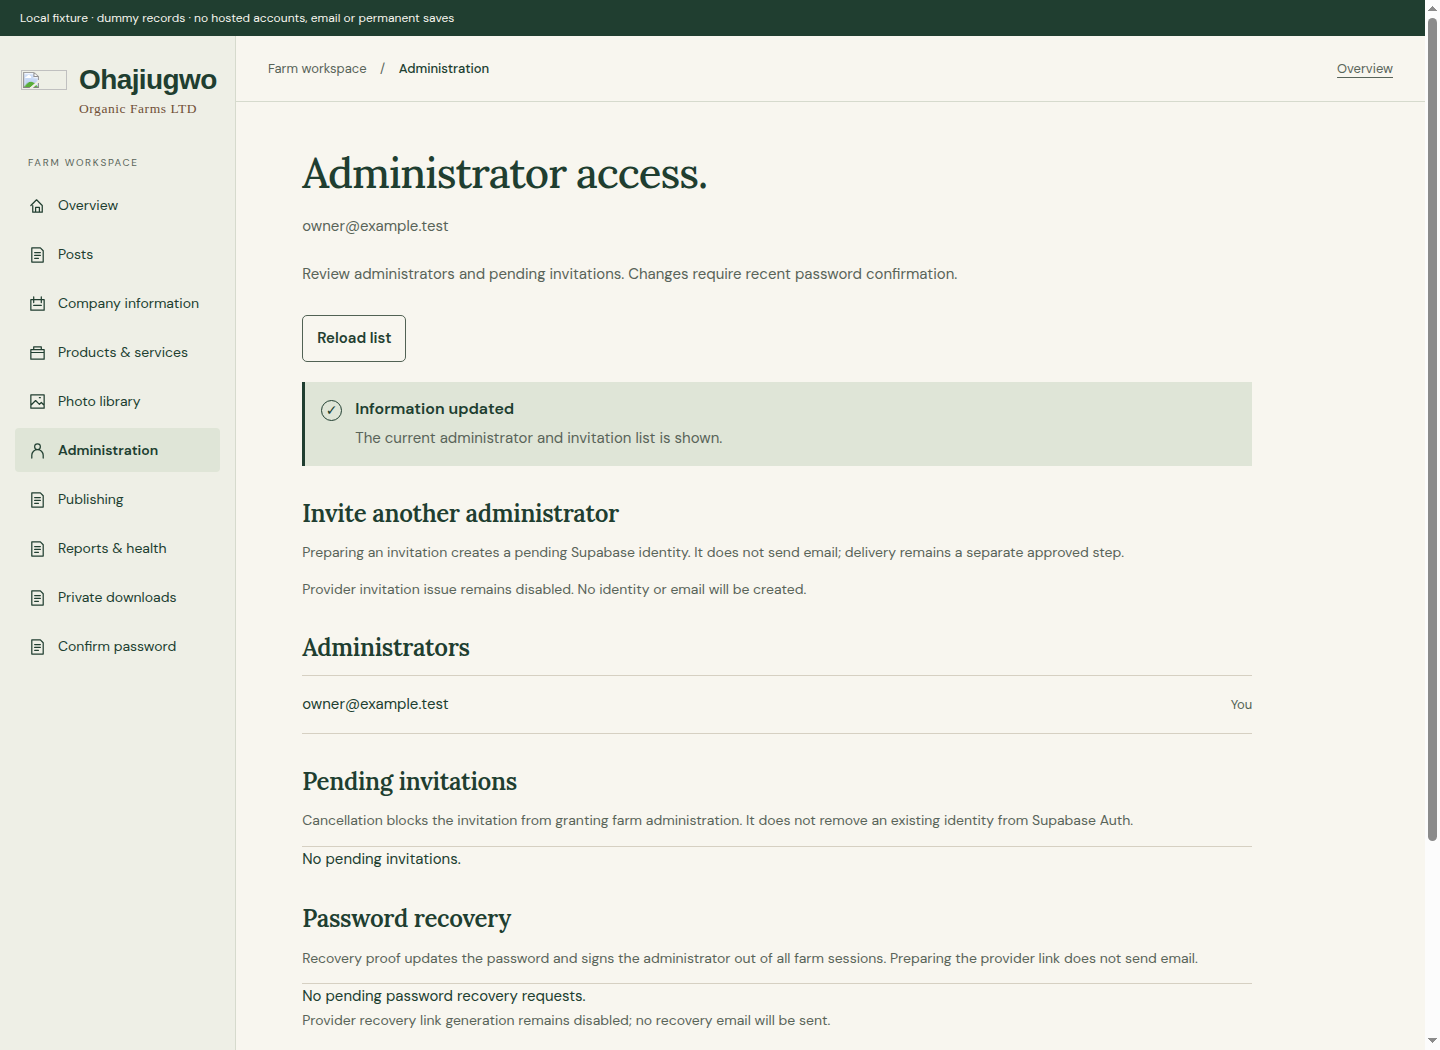
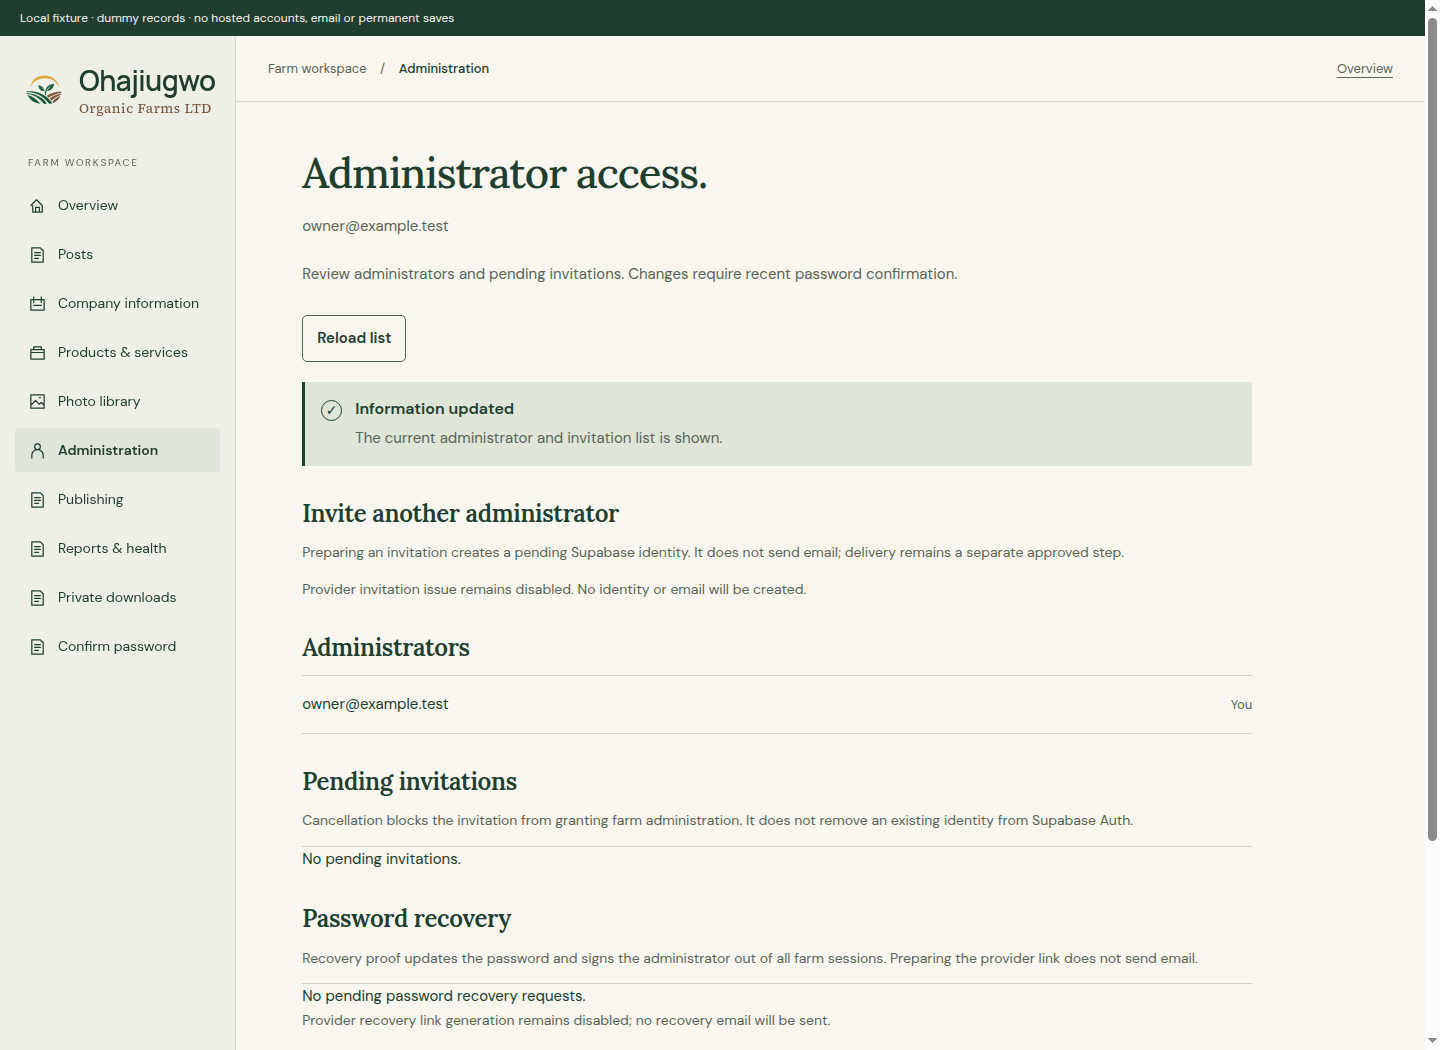
fix: refine landing copy and unify workspace layouts

diff --git a/admin/workspace/screen.css b/admin/workspace/screen.css
@@ -13,3 +13,10 @@
 .workspace-fixture-notice{margin:0!important;padding:9px 20px;background:#203e30;color:#f8f6ef!important;font:12px/1.5 WorkspaceDM,Arial,sans-serif}
 .workspace-sidebar nav a,.workspace-sidebar nav button,.editor-page.workspace-page .workspace-sidebar nav button{justify-content:flex-start}
 .workspace-page .workspace-primary,.workspace-page a.workspace-primary{background:var(--forest);color:var(--cream);border-color:var(--forest)}.workspace-page .workspace-primary:hover,.workspace-page a.workspace-primary:hover{background:var(--deep);color:var(--cream)}
+
+/* Shared workspace refinements: pinned desktop navigation, natural mobile flow. */
+@media(min-width:801px){
+ .workspace-page .workspace-sidebar,.editor-page.workspace-page .workspace-sidebar{position:sticky;top:0;align-self:start;height:100dvh;min-height:0;overflow-y:auto;overscroll-behavior:contain;scrollbar-width:thin}
+}
+.workspace-page .workspace-intro{max-width:68ch;margin-bottom:0}.workspace-page .workspace-section{padding:28px 0;border-top:1px solid var(--line)}.workspace-page .workspace-section>p{max-width:68ch;margin:0 0 20px}.workspace-page .workspace-section h2{margin:0 0 10px}.workspace-page .workspace-section .workspace-help{font-size:14px;margin:16px 0 0}.workspace-page .workspace-guidance{max-width:72ch;margin-top:12px;padding:20px 24px;background:var(--paper);border-left:3px solid #9a7049}.workspace-page .workspace-guidance p{margin:6px 0 0}.workspace-page .workspace-notice{margin:24px 0;padding:18px 20px;border-left:4px solid #496c85;background:#eaf0f4;color:#253f53;overflow-wrap:anywhere}.workspace-page .workspace-notice[data-state=error]{border-color:#8c2924;background:#fae9e4;color:#79251f}.workspace-page .workspace-notice:focus{outline:3px solid #aa672e;outline-offset:3px}.workspace-page #export-photos p{padding:14px 0;border-bottom:1px solid var(--line);margin:0}.workspace-page #export-photos button{max-width:100%;text-align:left}
+@media(max-width:800px){.workspace-page .workspace-section{padding:24px 0}.workspace-page .workspace-guidance{padding:18px}.workspace-page #export-content{width:100%}}

diff --git a/src/styles/main.css b/src/styles/main.css
@@ -1448,3 +1448,6 @@ div[id] {
 .home-page section[id][tabindex="-1"]:focus {
   outline: none;
 }
+
+/* Owner-requested warm-earth accent, with a light variant on the forest strip. */
+.rooted-accent{color:#85512f}.topline .rooted-accent{color:#edce91}

diff --git a/HANDOFF.md b/HANDOFF.md
@@ -1,5 +1,15 @@
 # Ohajiugwo Organic Farms Ltd — handoff
 
+## 21 November — owner-requested landing copy and administrator layout refinements
+
+Owner requests “rooted-in” with an accent colour, no five-hectare wording in the farmland section, removal of sidebar-bottom content, pinned desktop navigation and consistently designed admin sections including Private downloads. Implemented the precise UI changes locally, preserving existing auth/validation/session/CSRF/download behaviour. Header tagline and story heading now use Rooted-in/rooted-in with warm-earth accent (#85512f on cream, 6.04:1 contrast; #edce91 on forest, 7.72:1). Both visible acreage references in the landing page were rewritten without a size claim; underlying confirmed company acreage data/schema/admin fields remain intact. The practices prose and page metadata were not broadly rewritten.
+
+Removed the shared sidebar footer and its duplicate links. Desktop navigation is sticky/pinned to the viewport with its own overflow at short window heights; scrolling main content does not move it. At mobile widths it returns to natural document flow. Existing main navigation still includes password confirmation. Shared shell now ensures logo styling loads exactly once on every wrapped page; this fixes the previously inconsistent Private downloads logo. Downloads now has standard heading/intro, separated content/photo sections, shared feedback and consistent actions/helper text. No new dependency, floating-card redesign or account/email/provider behaviour change.
+
+Fresh local evidence: 53/53 public/editor tests and 242/242 administrator tests passed; hosting composition/build passed (3,392,289 raw worker bytes). Browser checks against loopback dummy providers passed across seven authenticated fixture surfaces: overview, content, media, accounts, publishing, reports and downloads. They verify absent sidebar footer, one logo stylesheet, pinned desktop navigation during main scrolling, natural mobile positioning and no horizontal overflow. Existing workspace keyboard/filter/error/recovery/CSS-zoom regression also passed. Saved-preview/download/release-error flows remain passing in the fixture. Public photo loading, mobile accent visibility, acreage-free story/location copy and 375/390/768/1440px reflow checked. Screenshots visually inspected: readiness-downloads-desktop/mobile, readiness-photography-desktop and readiness-about-desktop, under docs/review. These automated/screenshot checks are not owner appearance approval or new hosted auth/accessibility verification; manual screen-reader/physical keyboard/zoom gaps remain.
+
+Tests were updated narrowly for the explicitly authorised wording/accent changes; original section order/layout and remaining CSS baseline comparisons remain enforced. A local fixture asset fallback and navigation-ready checks were corrected so screenshots wait for the actual page/responsive hero instead of stale paint. No hosted migration, provider/SMTP change, real account/email, production deployment or main merge. Updating the existing Stage 2 staging preview follows the owner's standing staging-review authorisation; commit/deployment evidence is recorded separately after success. Stage 2 remains incomplete at pending011/three Auth cleanup review jobs.
+
 ## 21 November — committed, pushed and staged successfully for owner review
 
 Owner authorised commit/push and Cloudflare staging. Commit **`df736cf26267aa0de5122f3e65f8d5aac2bc12b2`** (`feat: add publishing recovery reporting and hosting readiness`) contains the readiness implementation and new sequential operations CI step. Pushed `stage-2-secure-content` to the existing GitHub repository, including the preceding local Farm workspace/design commits. `main` was neither merged nor changed. Private configuration scan and staged diff checks passed; no credentials or actual `.env.admin` were committed. Fresh local precommit checks passed: 242 administrator, 53 operations/reporting/publishing and 53 public/editor tests plus hosting composition.

diff --git a/design-system/ohajiugwo-organic-farms/MASTER.md b/design-system/ohajiugwo-organic-farms/MASTER.md
@@ -1,5 +1,9 @@
 # Ohajiugwo Organic Farms — project design system
 
+## 21 November — owner-requested UI refinement
+
+Landing tagline/story heading use “Rooted-in”/“rooted-in” with restrained warm-earth (#85512f on cream; #edce91 on forest) accent. No acreage wording in the visible story/farmland copy; confirmed source acreage is retained. Administrator sidebar has no footer content, stays pinned while desktop main content scrolls, and returns to natural mobile flow. All workspace screens use the shared logo/typography/navigation; downloads uses standard heading, separated sections and feedback. These requests supersede the older visible five-hectare copy and scrolling-sidebar guidance only. Owner visual review of the implementation remains pending.
+
 ## 21 November — owner-approved Farm workspace addendum
 
 For administrator surfaces, the owner approved Approach A and its written design at `docs/superpowers/specs/2026-11-21-farm-workspace-design.md`. It supersedes older prohibitions on admin styling changes within this defined scope: shared restrained navigation, spacious editorial pages, Linear-inspired forms, Airbnb-inspired filters and a Notion-inspired overview. Use the existing farm symbol/wordmark, cream/forest palette, Lora/DM Sans and logo fonts. Existing writer/security rules remain; centred authentication/acceptance composition remains. Public homepage layout/copy is preserved; more contextual photography is authorised for selection but no individual replacement is yet approved. Refer to `docs/FARM-WORKSPACE-LOCAL.md` for actual implementation/evidence and gaps; visual selection is not hosted security or screen-reader verification.
